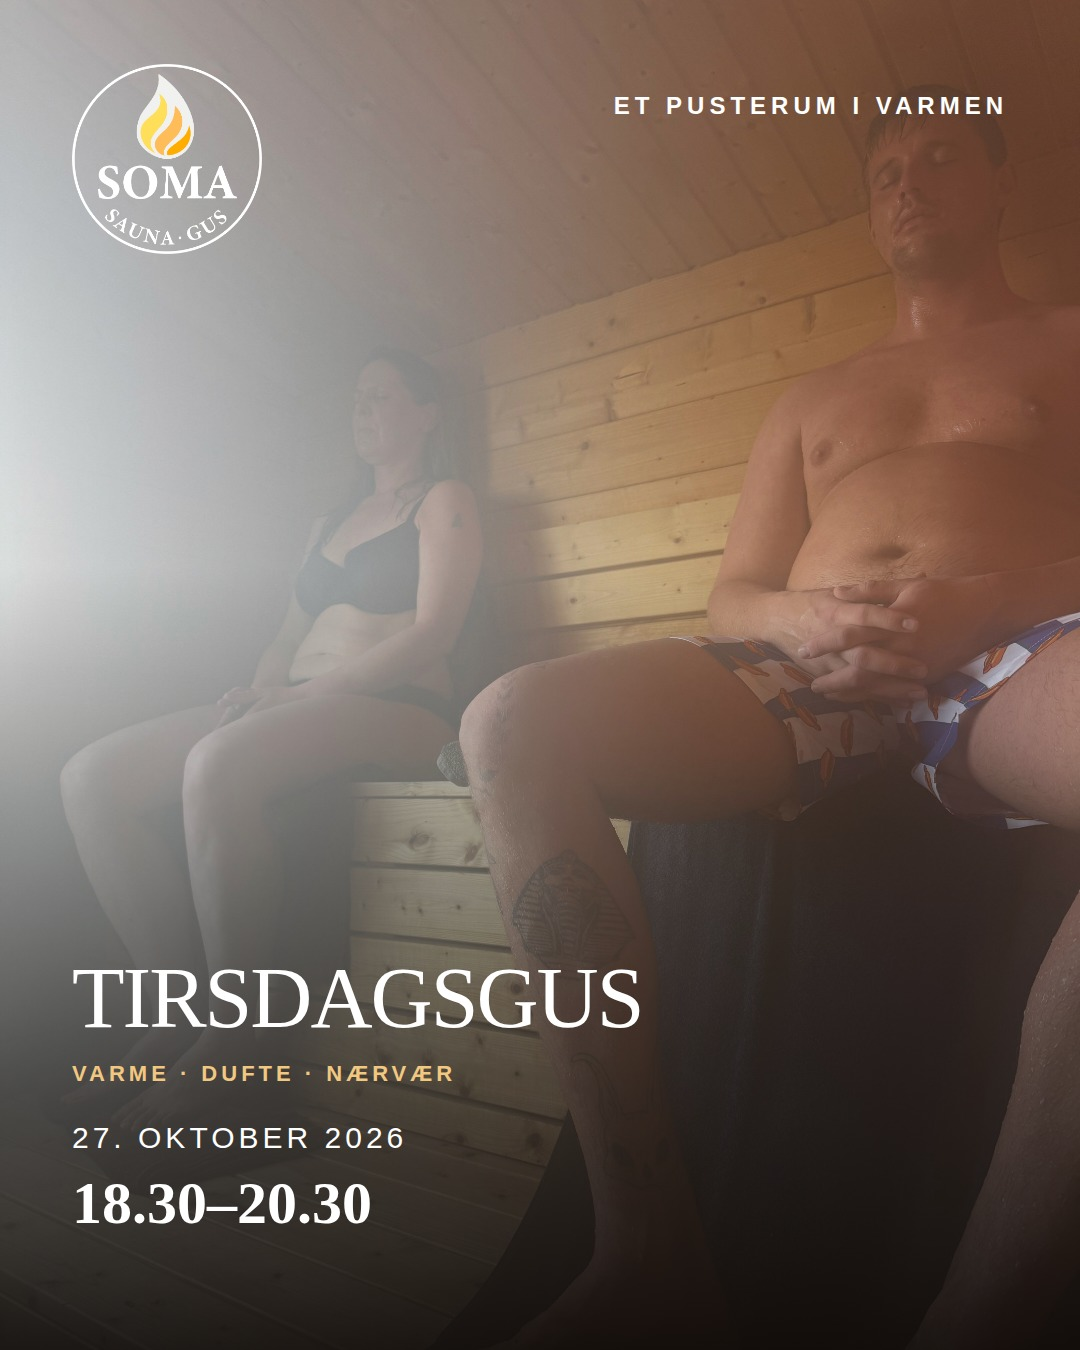
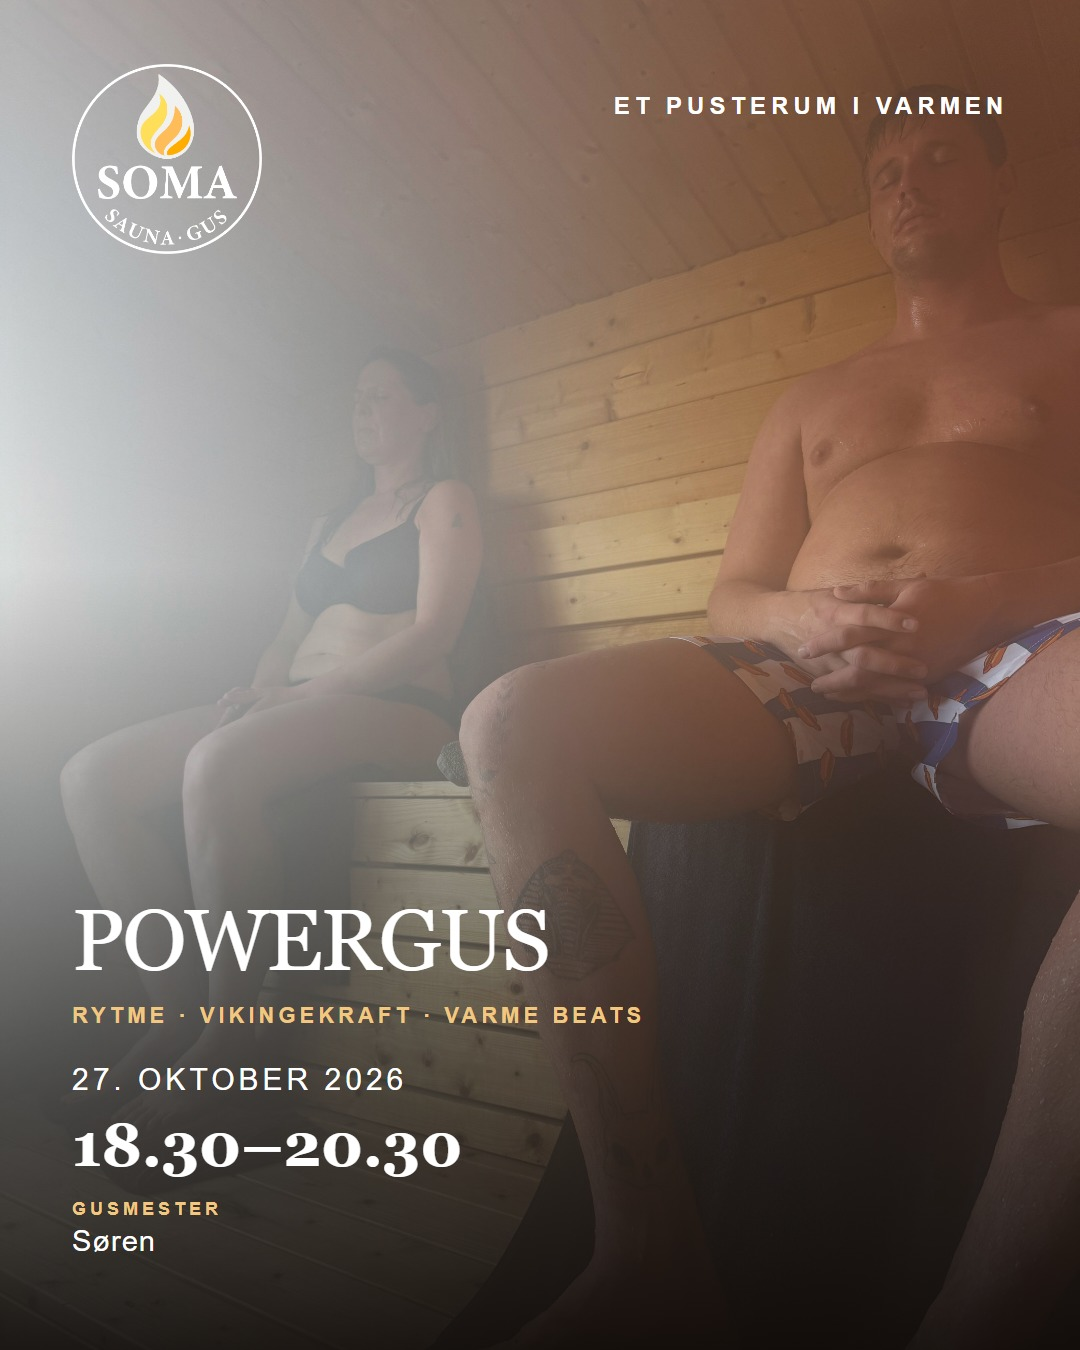
choose-instructor: 2026-10-27_18-30_saunagus_day-before_r1 (soren) via lokal godkendelsesside

Changed region(s): [[0.0611, 0.6533, 0.6111, 0.9333]]

diff --git a/outputs/content-planner/approval/drafts-data.js b/outputs/content-planner/approval/drafts-data.js
@@ -5302,7 +5302,7 @@ window.__SOMA_DRAFTS__ = window.__SOMA_DRAFTS__ || [
         "name": "Saunagus",
         "booked": 0,
         "capacity": 12,
-        "instructor": null,
+        "instructor": "Søren",
         "description": null,
         "sourceText": "18:30 - 20:30 SAUNAGUS 0/12 Tilmeld",
         "sourceUrl": "https://somasaunagus.dk/kalender/",
@@ -5344,10 +5344,10 @@ window.__SOMA_DRAFTS__ = window.__SOMA_DRAFTS__ || [
     "availability": null,
     "warnings": [],
     "platformCopies": {
-      "instagram": "Næste uges gus 🔥\n\n• 27. oktober 2026 · 18.30–20.30 · Tirsdagsgus\n• 29. oktober 2026 · 18.30–20.30 · Torsdagsgus\n• 1. november 2026 · 16.00–18.00 · Søndagsgus\n\nSe tider og book via kalenderen: https://somasaunagus.dk/kalender/",
-      "facebookPage": "Her er næste uges gus. Hver session har sit eget udtryk, men altid med plads til ro, varme, dufte, musik og nærvær.\n\n• 27. oktober 2026 · 18.30–20.30 · Tirsdagsgus\n• 29. oktober 2026 · 18.30–20.30 · Torsdagsgus\n• 1. november 2026 · 16.00–18.00 · Søndagsgus\n\nFind den oplevelse, der passer dig, og book din plads her: https://somasaunagus.dk/kalender/"
+      "instagram": "Næste uges gus 🔥\n\n• 27. oktober 2026 · 18.30–20.30 · Powergus\n• 29. oktober 2026 · 18.30–20.30 · Torsdagsgus\n• 1. november 2026 · 16.00–18.00 · Søndagsgus\n\nSe tider og book via kalenderen: https://somasaunagus.dk/kalender/",
+      "facebookPage": "Her er næste uges gus. Hver session har sit eget udtryk, men altid med plads til ro, varme, dufte, musik og nærvær.\n\n• 27. oktober 2026 · 18.30–20.30 · Powergus\n• 29. oktober 2026 · 18.30–20.30 · Torsdagsgus\n• 1. november 2026 · 16.00–18.00 · Søndagsgus\n\nFind den oplevelse, der passer dig, og book din plads her: https://somasaunagus.dk/kalender/"
     },
[2 lines of base64/hex data omitted]
     "factsUsed": [
       "event:2026-10-27_18-30_saunagus.date",
       "event:2026-10-27_18-30_saunagus.time",
@@ -5364,10 +5364,17 @@ window.__SOMA_DRAFTS__ = window.__SOMA_DRAFTS__ || [
[1 lines of base64/hex data omitted]
     },
     "renderPath": "renders/2026-10-26_weekly-overview-97b6142db6.jpg",
-    "manualInstructor": null,
+    "manualInstructor": "Søren",
     "manualAssetId": null,
-    "history": [],
[1 lines of base64/hex data omitted]
+    "history": [
+      {
+        "at": "2026-10-05T08:26:21.313Z",
+        "type": "change_instructor",
+        "from": "draft",
+        "to": "draft"
+      }
+    ],
[1 lines of base64/hex data omitted]
     "approvedAt": null,
     "approvedBy": null,
     "approvedRevision": null,
@@ -5382,7 +5389,7 @@ window.__SOMA_DRAFTS__ = window.__SOMA_DRAFTS__ || [
[1 lines of base64/hex data omitted]
     "revision": 1,
     "kind": "day_before",
-    "status": "needs_review",
+    "status": "draft",
     "scheduledFor": "2026-10-26T19:30:00+01:00",
     "season": "autumn",
     "event": {
@@ -5392,7 +5399,7 @@ window.__SOMA_DRAFTS__ = window.__SOMA_DRAFTS__ || [
       "name": "Saunagus",
       "booked": 0,
       "capacity": 12,
-      "instructor": null,
+      "instructor": "Søren",
       "description": null,
       "sourceText": "18:30 - 20:30 SAUNAGUS 0/12 Tilmeld",
       "sourceUrl": "https://somasaunagus.dk/kalender/",
@@ -5405,14 +5412,12 @@ window.__SOMA_DRAFTS__ = window.__SOMA_DRAFTS__ || [
       "label": "12 ledige pladser",
       "soldOut": false
     },
-    "warnings": [
-      "instructor_missing"
-    ],
+    "warnings": [],
     "platformCopies": {
-      "instagram": "I morgen: Der er plads til ro, varme og nærvær.\n\nSaunagus\n\n27. oktober 2026 · 18.30–20.30\n\n12 ledige pladser.\n\nBook din plads: https://somasaunagus.dk/kalender/",
-      "facebookPage": "Dato og tid: 27. oktober 2026 · 18.30–20.30\n\n12 ledige pladser.\n\nBook din plads: https://somasaunagus.dk/kalender/\n\nI morgen kan du træde ind i varmen til et saunagus.\n\nDer er plads til ro, varme og nærvær.\n\nEt saunagus med varme, dufte, musik og nærvær.\n\nDu er velkommen præcis, som du er."
+      "instagram": "I morgen: Land i varmen og lad kroppen falde til ro.\n\n27. oktober 2026 · 18.30–20.30\n\n12 ledige pladser.\n\nBook din plads: https://somasaunagus.dk/kalender/",
+      "facebookPage": "Dato og tid: 27. oktober 2026 · 18.30–20.30\n\n12 ledige pladser.\n\nBook din plads: https://somasaunagus.dk/kalender/\n\nI morgen kan du træde ind i varmen til et saunagus.\n\nLand i varmen og lad kroppen falde til ro.\n\nMusikken har lidt mere rytme og kraft, mens du stadig får plads til at lande.\n\nFire runder, der begynder blidt og slutter med ro i kroppen."
     },
[2 lines of base64/hex data omitted]
     "factsUsed": [
       "event.date",
       "event.start",
@@ -5425,11 +5430,11 @@ window.__SOMA_DRAFTS__ = window.__SOMA_DRAFTS__ || [
       "path": "renders/2026-10-27_18-30_saunagus_day-before-e821c6fa98.jpg",
       "width": 1080,
       "height": 1350,
[2 lines of base64/hex data omitted]
     },
     "renderPath": "renders/2026-10-27_18-30_saunagus_day-before-e821c6fa98.jpg",
-    "manualInstructor": null,
-    "manualAssetId": null,
+    "manualInstructor": "Søren",
+    "manualAssetId": "soma-power-steam",
     "instructorOptions": {
       "soren": {
         "instructor": "Søren",
@@ -5443,7 +5448,7 @@ window.__SOMA_DRAFTS__ = window.__SOMA_DRAFTS__ || [
           "path": "renders/2026-10-27_18-30_saunagus_day-before-e821c6fa98-soren.jpg",
           "width": 1080,
           "height": 1350,
[2 lines of base64/hex data omitted]
         },
         "renderPath": "renders/2026-10-27_18-30_saunagus_day-before-e821c6fa98-soren.jpg"
       },
@@ -5454,18 +5459,25 @@ window.__SOMA_DRAFTS__ = window.__SOMA_DRAFTS__ || [
           "instagram": "I morgen: Sænk tempoet og kom hjem i kroppen.\n\nMilleMaja fra Betterlife by Yndigegn\n\n27. oktober 2026 · 18.30–20.30\n\n12 ledige pladser.\n\nBook din plads: https://somasaunagus.dk/kalender/",
           "facebookPage": "Dato og tid: 27. oktober 2026 · 18.30–20.30\n\n12 ledige pladser.\n\nBook din plads: https://somasaunagus.dk/kalender/\n\nI morgen kan du træde ind i varmen til et saunagus med MilleMaja.\n\nSænk tempoet og kom hjem i kroppen.\n\nMilleMaja guider en sanselig og meditativ oplevelse med roligt tempo og plads til at være.\n\nDu må komme præcis, som du er."
         },
-        "assetId": "soma-img-5592",
+        "assetId": "soma-power-steam",
         "render": {
           "path": "renders/2026-10-27_18-30_saunagus_day-before-e821c6fa98-millemaja.jpg",
           "width": 1080,
           "height": 1350,
[2 lines of base64/hex data omitted]
         },
         "renderPath": "renders/2026-10-27_18-30_saunagus_day-before-e821c6fa98-millemaja.jpg"
       }
     },
-    "history": [],
[1 lines of base64/hex data omitted]
+    "history": [
+      {
+        "at": "2026-10-05T08:26:21.313Z",
+        "type": "change_instructor",
+        "from": "needs_review",
+        "to": "draft"
+      }
+    ],
[1 lines of base64/hex data omitted]
     "approvedAt": null,
     "approvedBy": null,
     "approvedRevision": null,
@@ -5480,7 +5492,7 @@ window.__SOMA_DRAFTS__ = window.__SOMA_DRAFTS__ || [
[1 lines of base64/hex data omitted]
     "revision": 1,
     "kind": "event_day",
-    "status": "needs_review",
+    "status": "draft",
     "scheduledFor": "2026-10-27T12:00:00+01:00",
     "season": "autumn",
     "event": {
@@ -5490,7 +5502,7 @@ window.__SOMA_DRAFTS__ = window.__SOMA_DRAFTS__ || [
       "name": "Saunagus",
       "booked": 0,
       "capacity": 12,
-      "instructor": null,
+      "instructor": "Søren",
       "description": null,
       "sourceText": "18:30 - 20:30 SAUNAGUS 0/12 Tilmeld",
       "sourceUrl": "https://somasaunagus.dk/kalender/",
@@ -5503,14 +5515,12 @@ window.__SOMA_DRAFTS__ = window.__SOMA_DRAFTS__ || [
       "label": "12 ledige pladser",
       "soldOut": false
     },
-    "warnings": [
-      "instructor_missing"
-    ],
+    "warnings": [],
     "platformCopies": {
-      "instagram": "I dag: Der er plads til ro, varme og nærvær.\n\nSaunagus\n\n27. oktober 2026 · 18.30–20.30\n\n12 ledige pladser.\n\nBook din plads: https://somasaunagus.dk/kalender/",
-      "facebookPage": "Dato og tid: 27. oktober 2026 · 18.30–20.30\n\n12 ledige pladser.\n\nBook din plads: https://somasaunagus.dk/kalender/\n\nI dag kan du træde ind i varmen til et saunagus.\n\nDer er plads til ro, varme og nærvær.\n\nEt saunagus med varme, dufte, musik og nærvær.\n\nKom med ind i varmen."
+      "instagram": "I dag: Giv slip på dagen og kom med ind i varmen.\n\n27. oktober 2026 · 18.30–20.30\n\n12 ledige pladser.\n\nBook din plads: https://somasaunagus.dk/kalender/",
+      "facebookPage": "Dato og tid: 27. oktober 2026 · 18.30–20.30\n\n12 ledige pladser.\n\nBook din plads: https://somasaunagus.dk/kalender/\n\nI dag kan du træde ind i varmen til et saunagus.\n\nGiv slip på dagen og kom med ind i varmen.\n\nRytmerne fylder lidt mere i musikken, men roen er stadig med hele vejen.\n\nKom som du er, og lad varmen gøre resten."
     },
[2 lines of base64/hex data omitted]
     "factsUsed": [
       "event.date",
       "event.start",
@@ -5523,11 +5533,11 @@ window.__SOMA_DRAFTS__ = window.__SOMA_DRAFTS__ || [
       "path": "renders/2026-10-27_18-30_saunagus_event-day-e821c6fa98.jpg",
       "width": 1080,
       "height": 1350,
[2 lines of base64/hex data omitted]
     },
     "renderPath": "renders/2026-10-27_18-30_saunagus_event-day-e821c6fa98.jpg",
-    "manualInstructor": null,
-    "manualAssetId": null,
+    "manualInstructor": "Søren",
+    "manualAssetId": "soma-img-6688",
     "instructorOptions": {
       "soren": {
         "instructor": "Søren",
@@ -5541,7 +5551,7 @@ window.__SOMA_DRAFTS__ = window.__SOMA_DRAFTS__ || [
           "path": "renders/2026-10-27_18-30_saunagus_event-day-e821c6fa98-soren.jpg",
           "width": 1080,
           "height": 1350,
[2 lines of base64/hex data omitted]
         },
         "renderPath": "renders/2026-10-27_18-30_saunagus_event-day-e821c6fa98-soren.jpg"
       },
@@ -5552,18 +5562,25 @@ window.__SOMA_DRAFTS__ = window.__SOMA_DRAFTS__ || [
           "instagram": "I dag: Sænk tempoet og kom hjem i kroppen.\n\nMilleMaja fra Betterlife by Yndigegn\n\n27. oktober 2026 · 18.30–20.30\n\n12 ledige pladser.\n\nBook din plads: https://somasaunagus.dk/kalender/",
           "facebookPage": "Dato og tid: 27. oktober 2026 · 18.30–20.30\n\n12 ledige pladser.\n\nBook din plads: https://somasaunagus.dk/kalender/\n\nI dag kan du træde ind i varmen til et saunagus med MilleMaja.\n\nSænk tempoet og kom hjem i kroppen.\n\nMilleMaja guider en sanselig og meditativ oplevelse med roligt tempo og plads til at være.\n\nGiv dig selv plads til bare at være."
         },
-        "assetId": "soma-img-5597",
+        "assetId": "soma-img-6688",
         "render": {
           "path": "renders/2026-10-27_18-30_saunagus_event-day-e821c6fa98-millemaja.jpg",
           "width": 1080,
           "height": 1350,
[2 lines of base64/hex data omitted]
         },
         "renderPath": "renders/2026-10-27_18-30_saunagus_event-day-e821c6fa98-millemaja.jpg"
       }
     },
-    "history": [],
[1 lines of base64/hex data omitted]
+    "history": [
+      {
+        "at": "2026-10-05T08:26:21.313Z",
+        "type": "change_instructor",
+        "from": "needs_review",
+        "to": "draft"
+      }
+    ],
[1 lines of base64/hex data omitted]
     "approvedAt": null,
     "approvedBy": null,
     "approvedRevision": null,
